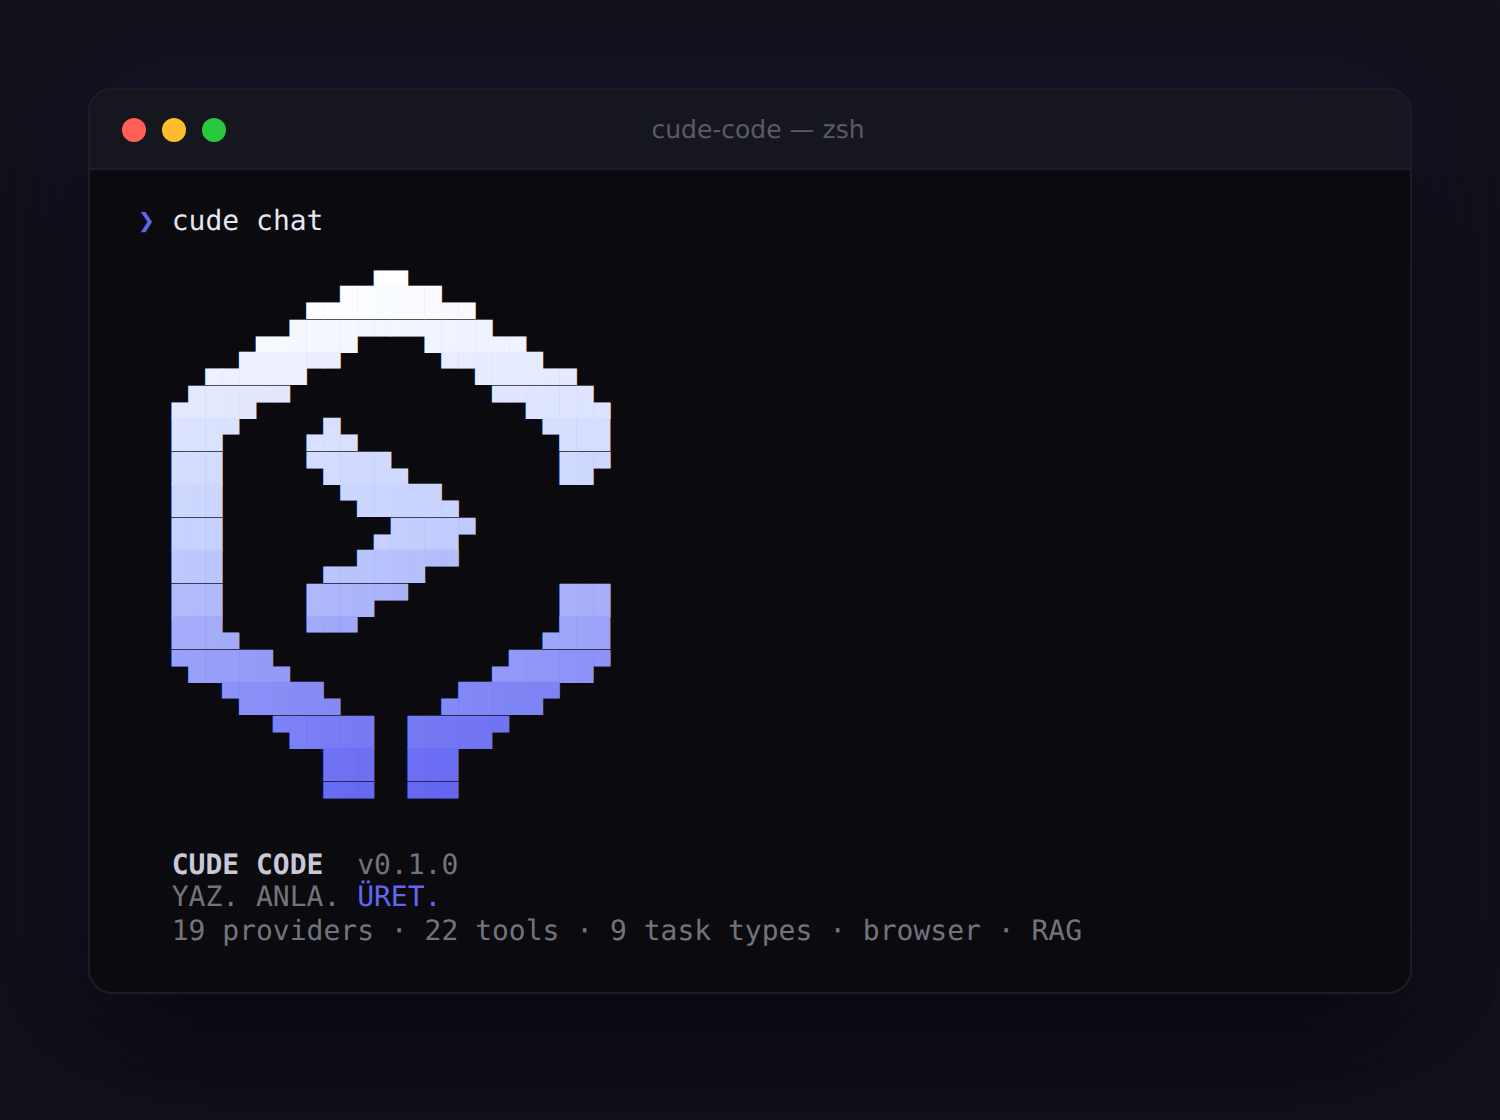
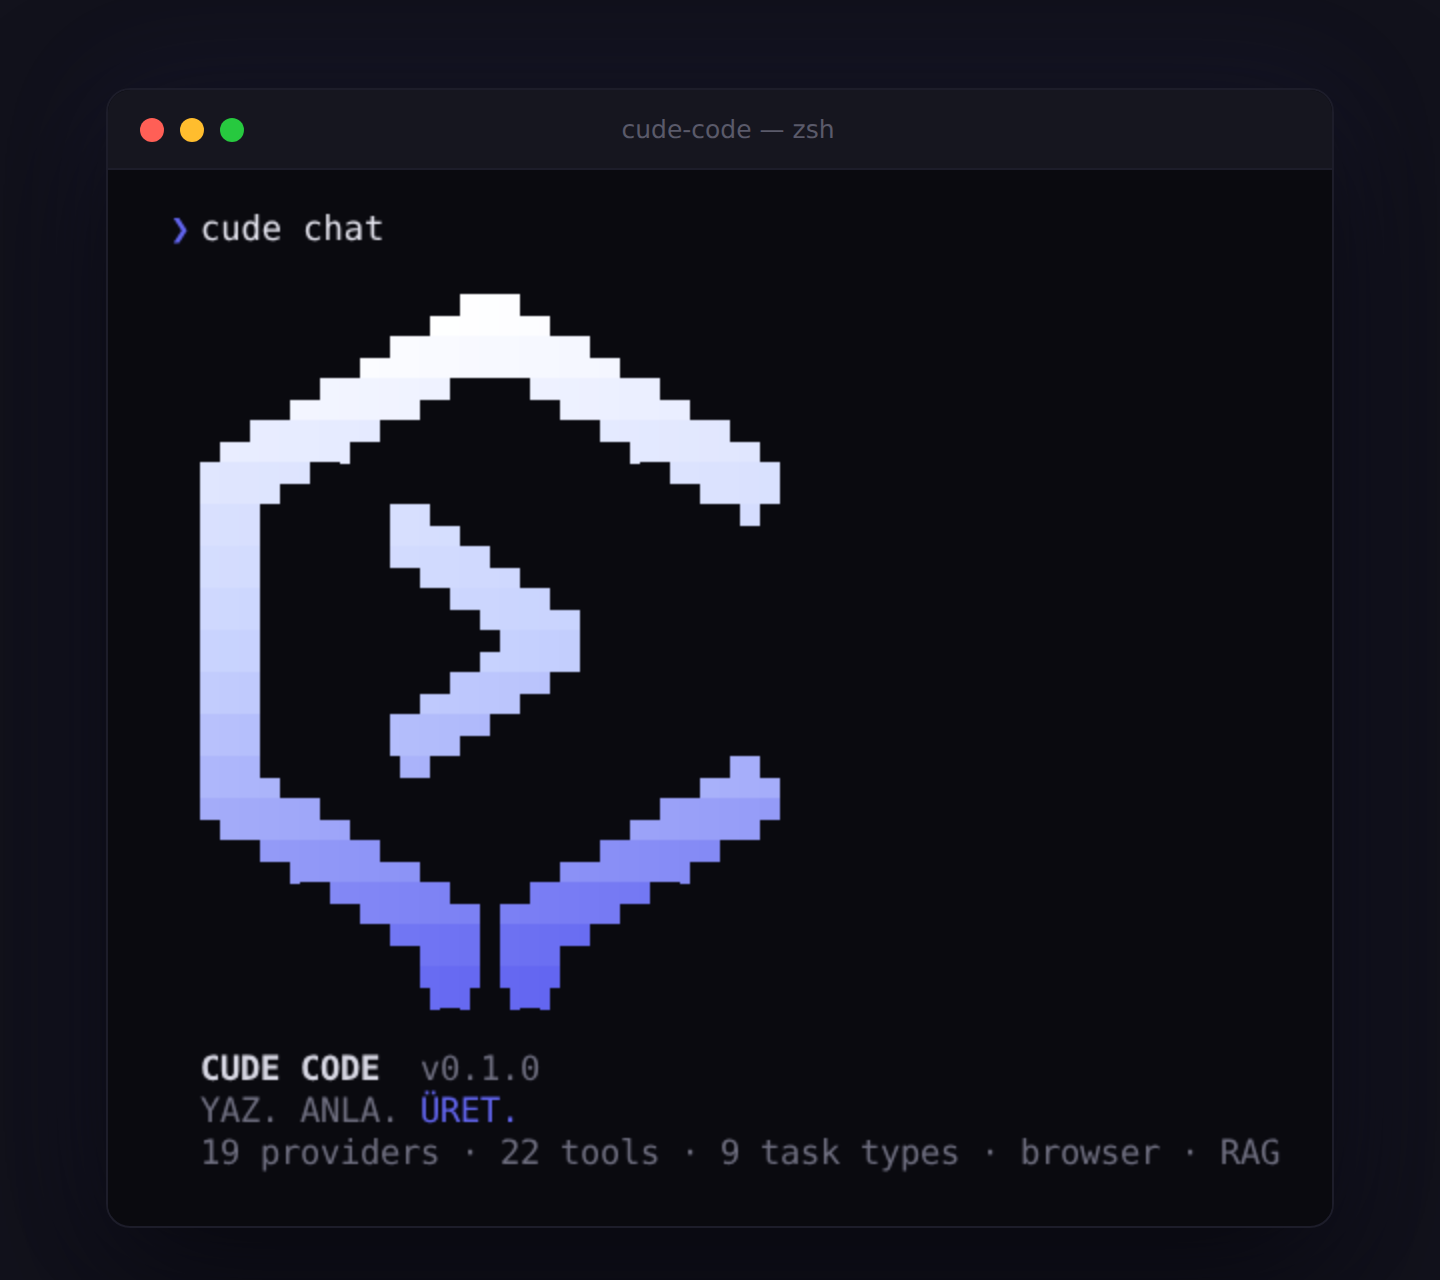
fix: render the CLI mark from cude-mark.svg with no simplification
Two separate problems were making the terminal mark diverge from the logo.

1. Half-blocks have no horizontal resolution. Using ▀▄█ gives two sub-rows
   per cell but only ONE sub-column, so the bottom notch — 2.6% of the
   mark's width, about 0.7 of a cell — could not be drawn. Every previous
   attempt widened the notch and thickened the stroke to compensate, i.e.
   altered the logo. Switching to quadrant blocks (▘▝▖▗▚▞▛▜▙▟▌▐) splits
   each cell 2x2, doubling horizontal resolution at the same character
   footprint. The notch now lands on ~1.5 sub-cells and survives, so the
   generator reads assets/cude-mark.svg directly — no variant, no tuning.

2. The preview was lying. It dumped the output into a <pre>, where the
   browser draws each block glyph at its font metrics inside a taller line
   box. Stacked blocks showed horizontal seams and solid runs looked
   fragmented, which is why the art appeared broken in the screenshot even
   when the characters were correct. A terminal instead paints block
   elements to exactly fill the cell, so the preview now parses the real
   ANSI output into (char, colour) cells and paints them as filled
   rectangles on a canvas. Text glyphs are centred per cell too, since a
   terminal does not use font advance widths.

assets/cude-banner.svg remains untouched.

Verified: build, type-check and lint clean, 22/22 tools pass, art diffed
side by side against the SVG in Chromium.
[…]

diff --git a/src/ui/display.ts b/src/ui/display.ts
@@ -12,23 +12,23 @@ marked.use(markedTerminal() as Parameters<typeof marked.use>[0]);
 // chevron inside, and the split notch at the bottom vertex — the same geometry
 // as assets/cude-mark.svg. Generated by tools/generate-logo.mjs into half-blocks.
 const LOGO_ART =
-  '              ▄▄\n' +
-  '          ▄▄██████▄▄\n' +
-  '       ▄▄████▀▀▀▀████▄▄\n' +
-  '    ▄▄████▀▀      ▀▀████▄▄\n' +
-  '  ▄████▀▀            ▀▀████▄\n' +
-  '  ███▀    ▄█▄           ▀███\n' +
-  '  ███     ▀████▄         ██▀\n' +
-  '  ███       ▀█████▄\n' +
-  '  ███         ▄████▀\n' +
-  '  ███      ▄▄████▀▀\n' +
-  '  ███     ████▀▀         ███\n' +
-  '  ███▄    ▀▀▀           ▄███\n' +
-  '  ▀█████▄            ▄█████▀\n' +
-  '     ▀█████▄      ▄█████▀\n' +
-  '        ▀█████  █████▀\n' +
-  '           ███  ███\n' +
-  '           ▀▀▀  ▀▀▀';
+  '             ▗▄███▄▖\n' +
+  '          ▄▟█████████▙▄\n' +
+  '      ▗▄█████▀▘   ▝▀█████▄▖\n' +
+  '   ▄▟████▛▀           ▀▜████▙▄\n' +
+  '  ████▀▘                 ▝▀████\n' +
+  '  ███      ▐█▙▄              ▀\n' +
+  '  ███      ▝▀███▙▄\n' +
+  '  ███         ▝▀███▙▄\n' +
+  '  ███           ▄████\n' +
+  '  ███        ▄▟███▀▘\n' +
+  '  ███      ▐███▀▘\n' +
+  '  ███▄      ▀▘             ▄▟█▄\n' +
+  '  ▀█████▄▖             ▗▄█████▀\n' +
+  '     ▀▜████▄▄       ▄▄████▛▀\n' +
+  '        ▝▀████▙▄ ▄▟████▀▘\n' +
+  '           ▝▀███ ███▀▘\n' +
+  '             ▜█▛ ▜█▛';
 
 export function showBanner(): void {
   const gradient = gradientString('#ffffff', '#c7d2fe', '#6366f1');
